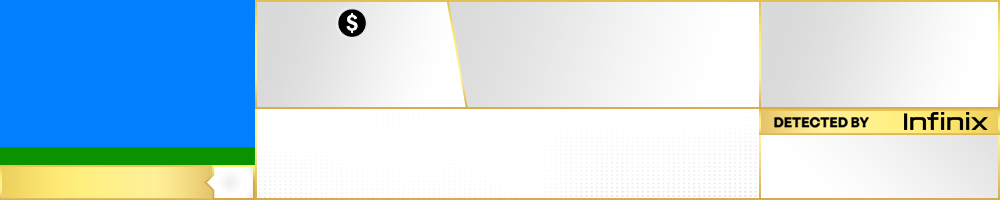
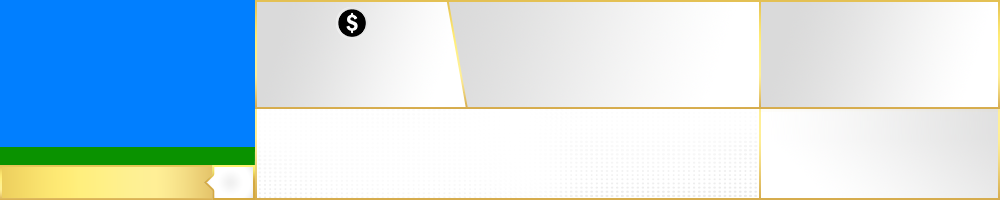
removed infinix sponsor

Changed region(s): [[0.744, 0.54, 1.0, 0.69]]

diff --git a/led_overlay.html b/led_overlay.html
@@ -271,7 +271,7 @@
   .heart-bpm {
     position: absolute;
     left: 114px;
-    top: 152px;
+    top: 141px;
     width: 32px;
     height: 32px;
     display: flex;
@@ -285,7 +285,7 @@
   .ekg-zone-led {
     position: absolute;
     left: 43px;
-    top: 152px;
+    top: 141px;
     width: 62px;
     height: 28px;
     z-index: 22;
@@ -313,7 +313,7 @@
     -ms-transform:     matrix(2.93033008800352,0,0,2.93033008800352,0,0);
     position: absolute;
     left: 176.455px;
-    top: 160.557px;
+    top: 149.557px;
     z-index: 23;
   }
 